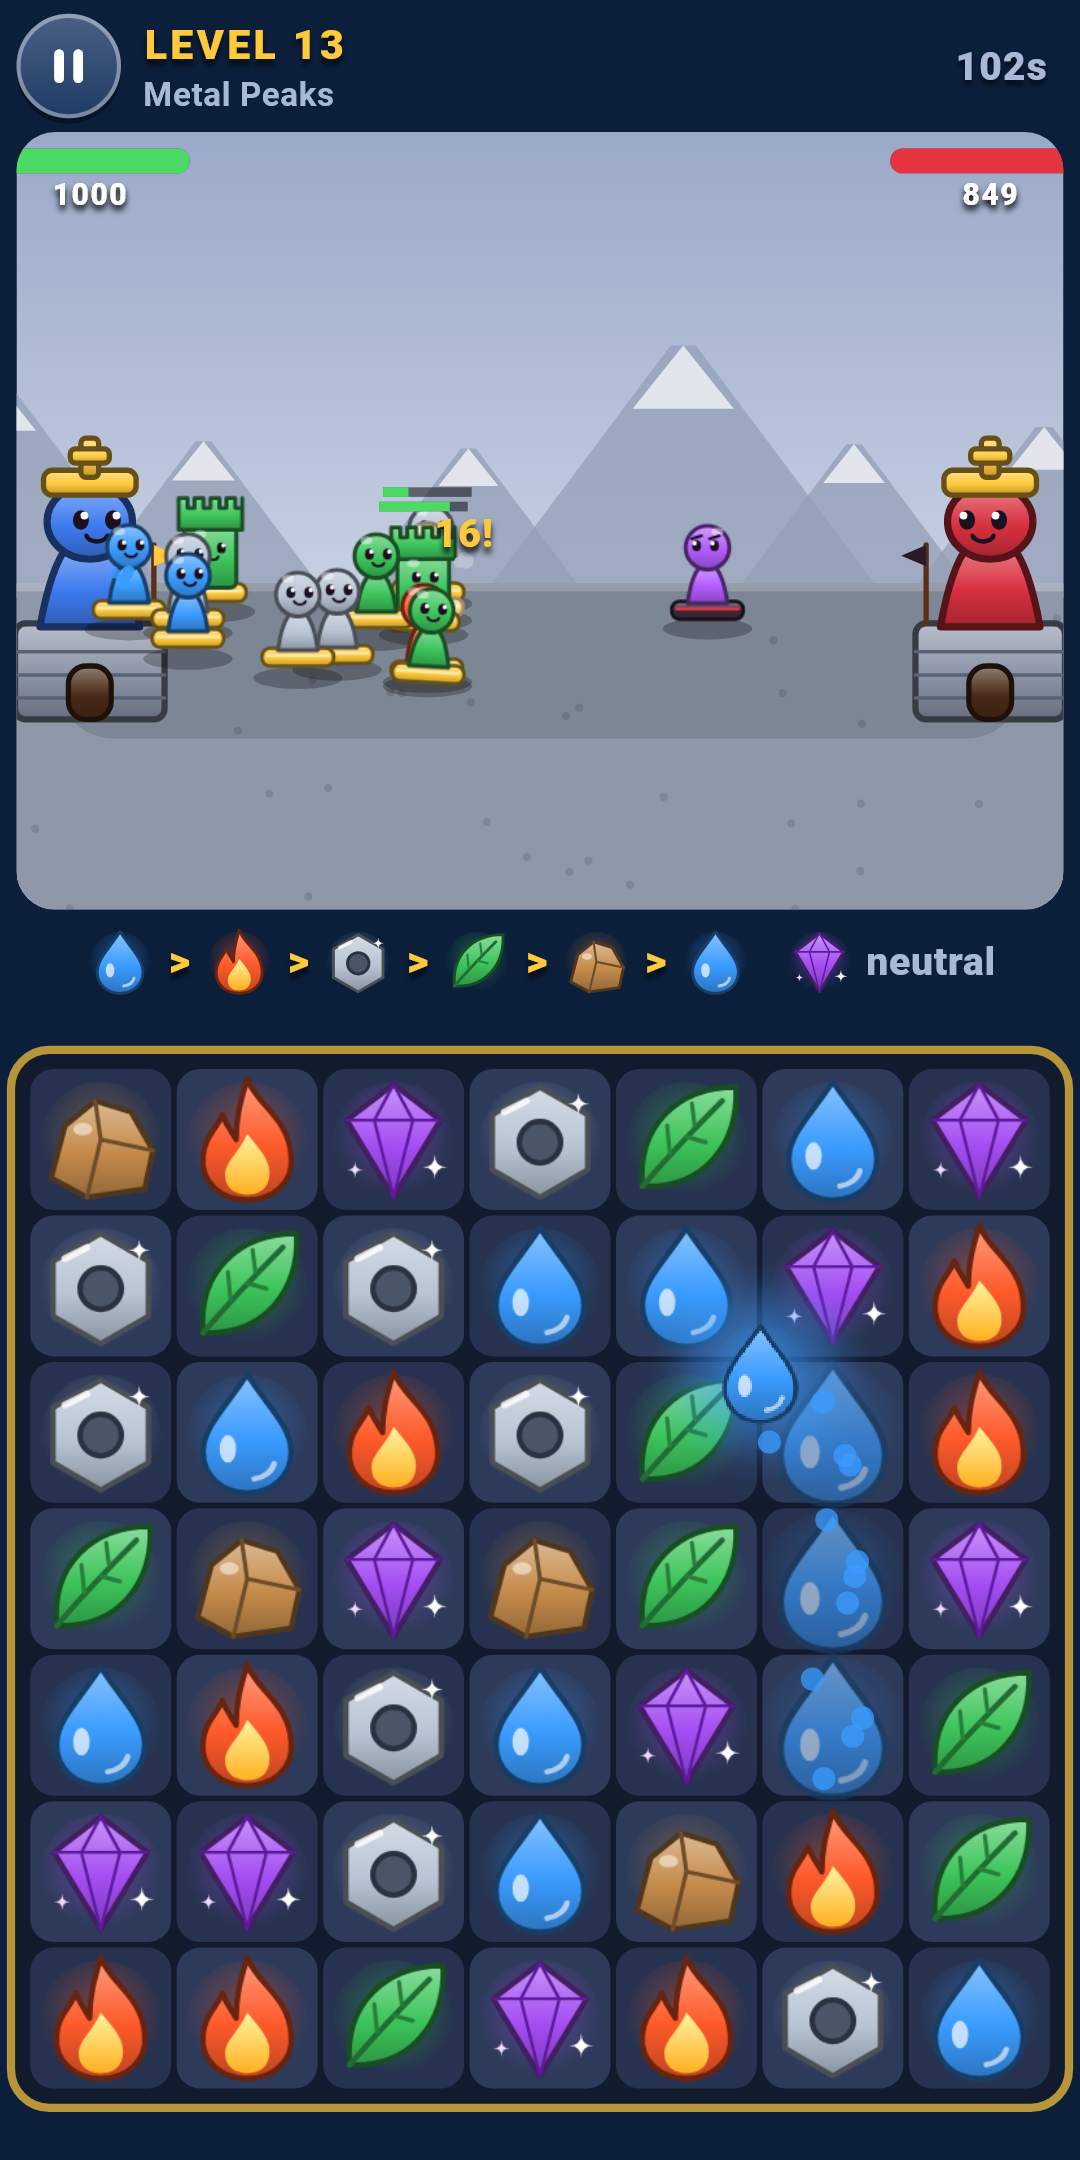
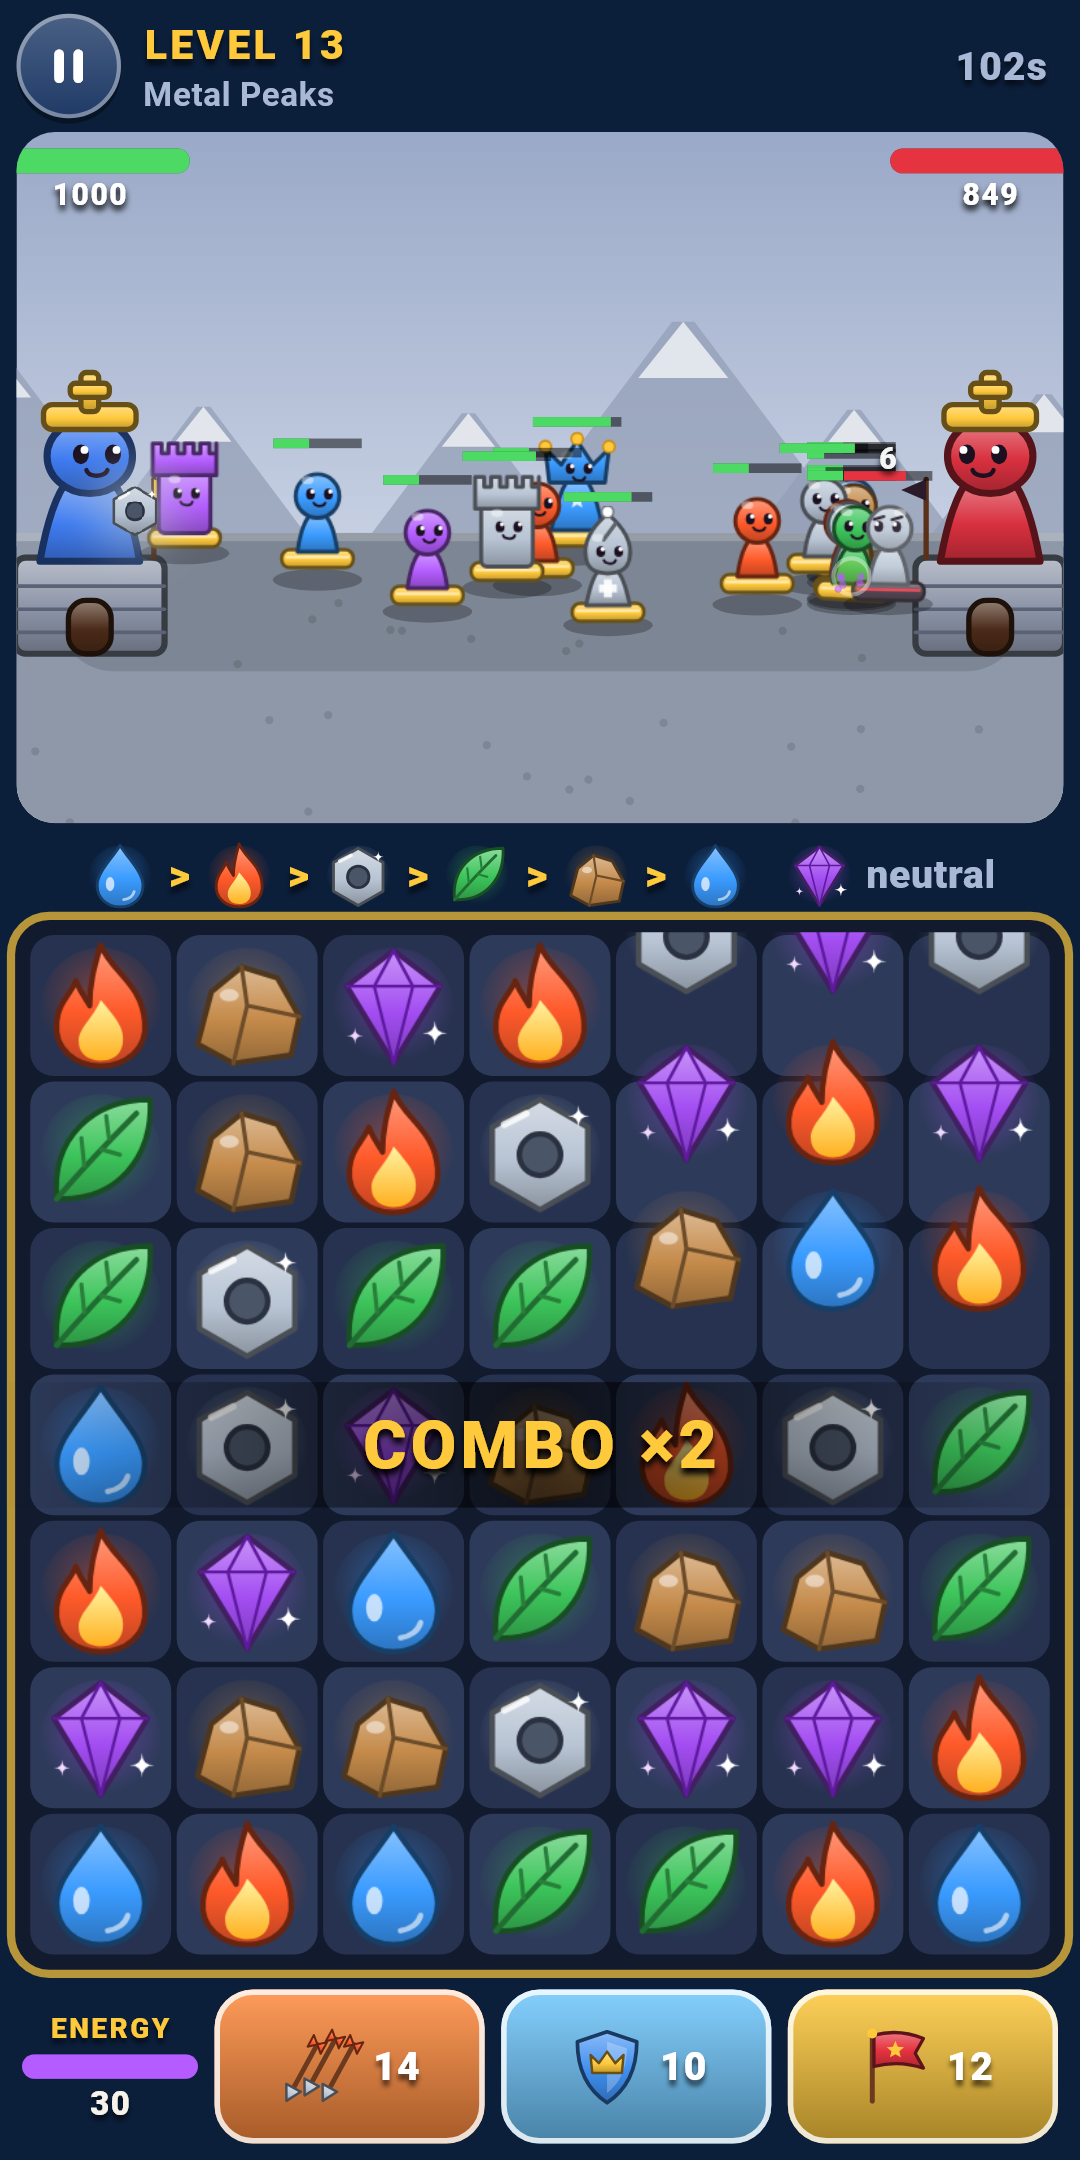
Element Kings 1.1: Bishop and King skills, new screenshots

diff --git a/elementkings/index.html b/elementkings/index.html
@@ -47,11 +47,11 @@
     <div class="card"><div class="emoji">💧</div><h3>Six elements</h3>
       <p>Water, fire, metal, wood, earth and magic fill your board. Every match summons a soldier of that element.</p></div>
     <div class="card"><div class="emoji">♟</div><h3>A chess army</h3>
-      <p>Match 3 for a Pawn, 4 for a sturdy Rook, an L or T for a Knight that explodes on contact, 5 for a mighty Queen.</p></div>
+      <p>Match 3 for a Pawn, 4 for a sturdy Rook, an L or T for a Knight that explodes on contact, 5 for a mighty Queen. A COMBO ×3 adds a healing Bishop.</p></div>
     <div class="card"><div class="emoji">🔥</div><h3>Elements counter each other</h3>
       <p>Water beats Fire, Fire beats Metal, Metal beats Wood, Wood beats Earth, Earth beats Water. Strong hits deal 60% more.</p></div>
     <div class="card"><div class="emoji">👑</div><h3>Real-time battles</h3>
-      <p>The enemy King plays its own board at the same time. Both Kings shoot, but weakly: your army does the work.</p></div>
+      <p>The enemy King plays its own board at the same time. Both Kings shoot weakly, but matches fill Royal Energy for Arrow Rain, Royal Shield and Rally.</p></div>
     <div class="card"><div class="emoji">🗺</div><h3>30 battles, 6 realms</h3>
       <p>From Earth Valley to the Magic Castle. Each realm favours its element, so pick the right counters.</p></div>
     <div class="card"><div class="emoji">⬆</div><h3>Upgrade and play offline</h3>
